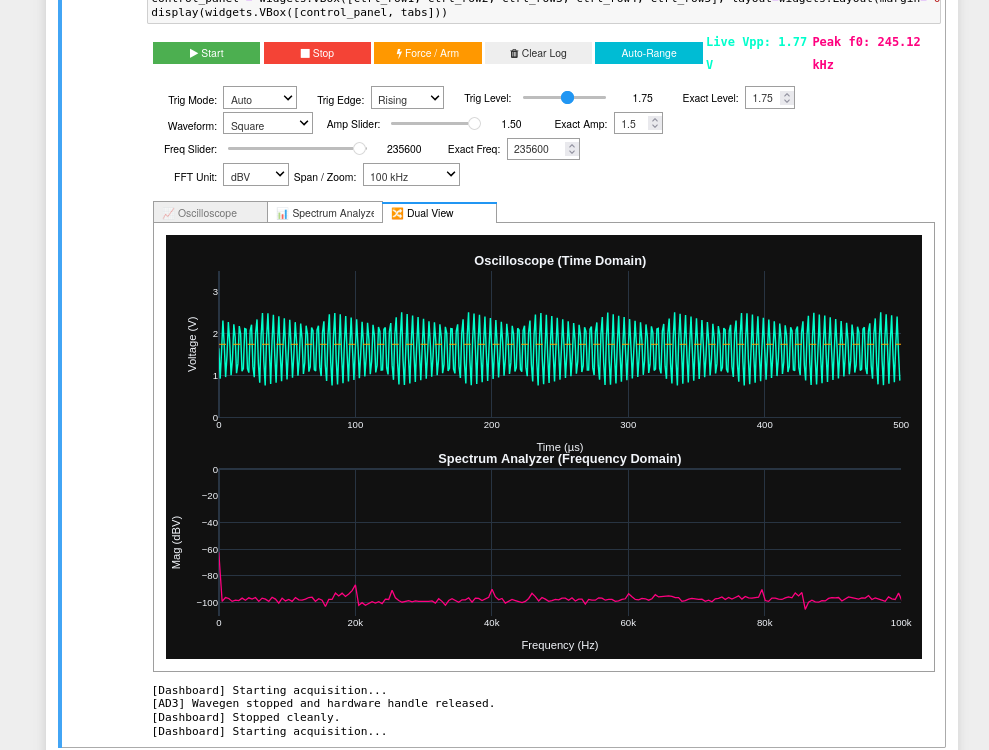
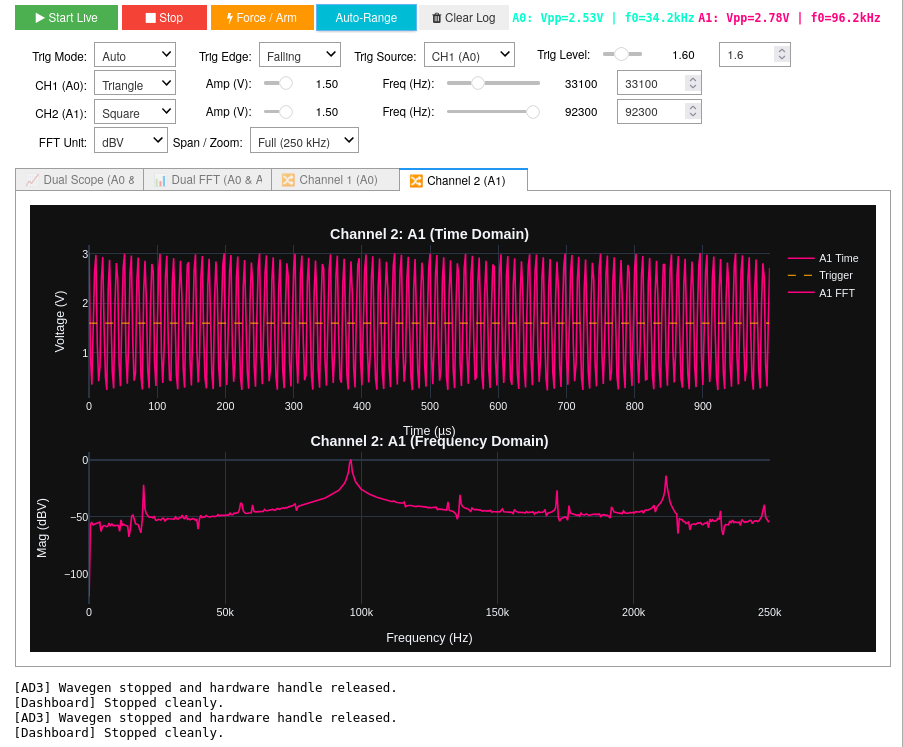
docs(readme): ensure PyPI absolute asset compatibility and document v1.3.0 dual-channel UI

diff --git a/README.md b/README.md
@@ -1,97 +1,114 @@
-# Real-Time 1 MSPS Hardware-Triggered Oscilloscope & Spectrum Analyzer
+# Real-Time Simultaneous Dual-Channel Oscilloscope & Spectrum Analyzer
 
 [![PyPI Version](https://img.shields.io/pypi/v/pynq-oscilloscope.svg)](https://pypi.org/project/pynq-oscilloscope/)
-[![License: MIT](https://img.shields.io/badge/License-MIT-yellow.svg)](LICENSE)
-[![Hardware Overlay](https://img.shields.io/badge/Hardware-hw--xadc--dma--overlays%20v1.2.0-orange.svg)](https://github.com/SiririComun/hw-xadc-dma-overlays)
+[![License: MIT](https://img.shields.io/badge/License-MIT-yellow.svg)](https://github.com/SiririComun/sw-pynq-oscilloscope/blob/main/LICENSE)
+[![Hardware Overlay](https://img.shields.io/badge/Hardware-hw--xadc--dma--overlays%20v1.3.0--rc1-orange.svg)](https://github.com/SiririComun/hw-xadc-dma-overlays)
 [![Board Support](https://img.shields.io/badge/Board-PYNQ--Z2-green.svg)](https://tul.com.tw/ProductsPYNQ-Z2.html)
 
-A high-performance, dark-mode real-time Oscilloscope and Spectrum Analyzer software stack running natively on PYNQ Linux platforms. 
+A high-performance, dark-mode real-time **Dual-Channel Oscilloscope and Spectrum Analyzer** software stack running natively on PYNQ Linux platforms. 
 
-Features **sub-microsecond hardware edge triggering** (`axis_trigger_unit`), **FPGA-accelerated 2048-point FFT & CORDIC magnitude extraction** in Programmable Logic, **dual AXI DMA streaming direct to DDR memory at ~290 FPS**, and non-blocking analog signal generation with the **Digilent Analog Discovery 3** via `pydwf`.
+Features **simultaneous dual-channel continuous analog acquisition** on Arduino header pins **A0** (`Vaux1`) and **A1** (`Vaux9`), **selectable hardware edge triggering (`CH1 / A0` vs `CH2 / A1`)**, **FPGA-accelerated 2048-point FFT & CORDIC magnitude extraction** in Programmable Logic, **dual AXI DMA streaming direct to DDR memory at ~30 FPS**, and non-blocking concurrent dual-channel analog waveform generation with the **Digilent Analog Discovery 3 (AD3)** via `pydwf`.
 
 ---
 
 ## 🏛 System Architecture
 
-This repository adopts the **canonical PYNQ Custom Overlay pattern** (`OscilloscopeOverlay`). It automatically pulls its compiled hardware bitstream and metadata from GitHub Releases (or loads local custom `.bit` builds) and encapsulates the Dual DMA receivers, AXI-Lite trigger registers, and wavegen into a unified Python object.
+This repository adopts the **canonical PYNQ Custom Overlay pattern** (`OscilloscopeOverlay`). It automatically pulls its compiled hardware bitstream and metadata from GitHub Releases (or loads local custom `.bit` builds) and encapsulates the Dual DMA receivers, AXI-Lite trigger registers, sequencer controls, and dual-wavegen into a unified Python object.
 
 ```
- [ Analog Discovery 3 (W1) ] ──(Analog Jumper Wire)──> [ PYNQ-Z2 Header (A0) ]
-              │                                                     │
-        (pydwf SDK)                                     (XADC 1 MSPS AXI-Stream)
-              │                                                     │
-              ▼                                                     ▼
-    [ AD3SignalGenerator ]                               [ axis_trigger_unit IP ]
-              │                                                     │
-              │                                          [ tlast_generator (2048 pts) ]
-              │                                                     │
-              │                                          [ axis_broadcaster ]
-              │                                    ┌────────────────┴────────────────┐
-              │                                    ▼ (Time Stream)                   ▼ (Signed Stream)
-              │                           [ AXI DMA 0 (Time) ]              [ xfft (2048-pt BFP) ]
-              │                                    │                                 │
-              │                                    │                        [ CORDIC (Magnitude) ]
-              │                                    │                                 │
-              │                                    │                        [ AXI DMA 1 (FFT) ]
-              │                                    │                                 │
-              └────────────────────────────────────┴────────────────┬────────────────┘
-                                                                    ▼
-                                                         [ OscilloscopeOverlay ]
-                                                  ├── .trigger  (HardwareTrigger AXI-Lite)
-                                                  ├── .xadc     (StreamingXADC DMA Driver)
-                                                  ├── .fft      (StreamingFFT PL DMA Driver)
-                                                  ├── .wavegen  (AD3SignalGenerator)
-                                                  └── .dashboard() (Interactive Multi-Tab Instrument)
+ [ Analog Discovery 3 ] ──(W1: Yellow)──────> [ PYNQ-Z2 Pin A0 (Vaux1) ]
+ [      Wavegen       ] ──(W2: Yellow/White)─> [ PYNQ-Z2 Pin A1 (Vaux9) ]
+        │                                                     │
+  (pydwf SDK)                                     (XADC Dual Continuous Sequencer)
+        │                                                     │ (1 MSPS Interleaved Stream)
+        ▼                                                     ▼
+ [ AD3SignalGenerator ]                              [ axis_trigger_unit IP ]
+ (Concurrent W1 & W2)                                (Selectable Trigger Source: A0/A1)
+                                                              │
+                                                     [ tlast_generator (2048 pts) ]
+                                                              │
+                                                     [ axis_broadcaster ]
+                                               ┌──────────────┴──────────────┐
+                                               ▼ (Time Stream)               ▼ (Signed Stream)
+                                      [ AXI DMA 0 (Time) ]          [ xfft (2048-pt BFP) ]
+                                               │                             │
+                                               │                    [ CORDIC (Magnitude) ]
+                                               │                             │
+                                               │                    [ AXI DMA 1 (FFT) ]
+                                               │                             │
+                                               └──────────────┬──────────────┘
+                                                              ▼
+                                                   [ OscilloscopeOverlay ]
+                                            ├── .trigger  (HardwareTrigger AXI-Lite)
+                                            ├── .xadc     (StreamingXADC DMA Driver)
+                                            ├── .fft      (StreamingFFT PL DMA Driver)
+                                            ├── .wavegen  (AD3SignalGenerator Dual-DAC)
+                                            └── .dashboard() (Interactive 4-Tab Instrument)
 ```
 
 ---
 
-## 🖥 Interactive Dashboard UI Guide
+## 🖥 Interactive 4-Tab Dashboard UI Guide
 
-![Real-Time Oscilloscope & Spectrum Analyzer Dashboard](https://raw.githubusercontent.com/SiririComun/sw-pynq-oscilloscope/main/docs/images/dashboard_screenshot.png)
+### Tab 1 — 📈 Dual Oscilloscope (A0 & A1)
+Displays synchronized real-time time-domain traces for **Channel 1 (A0, Cyan)** and **Channel 2 (A1, Magenta)**. The **Trigger Threshold Line (Orange Dashed)** automatically relocates to whichever channel is selected as the active trigger source.
 
-### 1. Action & Status Bar (Row 1)
-* **`▶ Start`:** Initializes background acquisition, arms the FPGA trigger, and streams Time & Frequency domains concurrently at up to 30 FPS.
-* **`■ Stop`:** Cleanly halts the acquisition loop, disarms the trigger, stops the AD3 wavegen, and releases device handles.
-* **`⚡ Force / Arm`:** 
-  * In **Single Mode**, re-arms the trigger to capture the next single transient event.
-  * In **Auto/Normal Mode**, forces an immediate hardware frame capture.
-* **`🗑 Clear Log`:** Instantly clears the console output area below the dashboard.
-* **`Auto-Range` (Toggle):** Dynamically scales the horizontal timebase (5–10 signal periods) and adapts the vertical Y-axis limits.
-* **`Live Vpp` & `Peak f0`:** Real-time peak-to-peak voltage calculation and automated fundamental frequency tracking.
+![Dual Scope Triggered on A0](https://raw.githubusercontent.com/SiririComun/sw-pynq-oscilloscope/main/docs/images/dashboard_dual_scope_a0.png)
 
-### 2. Hardware Trigger Controls (Row 2)
-* **`Trig Mode`:**
-  * **`Auto`:** Continuous live stream. Locks onto trigger edges; if no edge occurs within 50 ms (disconnected input or threshold out of range), the 50 ms hardware timeout forces a capture so the display never freezes.
-  * **`Normal`:** Strictly edge-triggered. Freezes and holds the last frame when no trigger edge is present.
-  * **`Single`:** Captures **one single frame** on the first trigger event and freezes. Re-arm by clicking **`⚡ Force / Arm`**.
-* **`Trig Edge` (`Rising` / `Falling`):** Configures the FPGA voltage comparator slope.
-* **`Trig Level` (Slider & Numeric Box):** Sets the FPGA threshold register (`0x08`) between $0.0\,\text{V}$ and $3.3\,\text{V}$ with client-side zero-latency linking (`widgets.jslink`).
+*Trigger source set to **CH2 (A1)** — the trigger threshold line dynamically moves to the bottom A1 subplot:*
+![Dual Scope Triggered on A1](https://raw.githubusercontent.com/SiririComun/sw-pynq-oscilloscope/main/docs/images/dashboard_dual_scope_a1.png)
 
-### 3. AD3 Signal Generator & FFT Controls (Rows 3, 4 & 5)
-* **`Waveform` (`Sine`, `Triangle`, `Square`):** Selects DAC output waveform on AD3 W1.
-* **`Amp` & `Freq` Sliders:** Adjusts output amplitude ($0.1\,\text{V} - 1.5\,\text{V}$) and frequency ($100\,\text{Hz} - 250\,\text{kHz}$) on the fly.
-* **`FFT Unit` (`dBV`, `dBFS`, `Linear`):** Selects logarithmic power or linear amplitude for the spectrum analyzer.
-* **`Span / Zoom` (`Full 500 kHz`, `100 kHz`, `20 kHz`):** Zooms the frequency horizontal axis.
+---
 
-### 4. Multi-Tab Instrument Display
-* **📈 Tab 1 — Oscilloscope:** 1 MSPS time-domain trace + live orange dashed trigger threshold line.
-* **📊 Tab 2 — Spectrum Analyzer:** Real-time PL FFT spectrum with cyan diamond fundamental frequency marker ($f_0$).
-* **🔀 Tab 3 — Dual View:** Synchronized stacked display showing Time Domain (top) and Frequency Domain (bottom) simultaneously.
+### Tab 2 — 📊 Dual Spectrum Analyzer (FFTs of A0 & A1)
+Computes and renders high-speed frequency spectra for both channels simultaneously ($0 - 250\,\text{kHz}$) with automated fundamental peak frequency ($f_0$) tracking.
+
+![Dual FFT Spectrum Analyzer](https://raw.githubusercontent.com/SiririComun/sw-pynq-oscilloscope/main/docs/images/dashboard_dual_fft.png)
+
+---
+
+### Tab 3 & 4 — 🔀 Dedicated Channel Views
+Stacked multi-domain displays showing Time Domain (top) and Frequency Domain (bottom) for each channel individually:
+
+| Channel 1: A0 (Time + Spectrum) | Channel 2: A1 (Time + Spectrum) |
+| :---: | :---: |
+| ![Channel 1 View](https://raw.githubusercontent.com/SiririComun/sw-pynq-oscilloscope/main/docs/images/dashboard_ch1_view.png) | ![Channel 2 View](https://raw.githubusercontent.com/SiririComun/sw-pynq-oscilloscope/main/docs/images/dashboard_ch2_view.png) |
+
+---
+
+## ⚙ Control Panel Reference
+
+1. **Action Row (Row 1):**
+   * **`▶ Start Live`:** Launches non-blocking dual DMA stream and AD3 dual wavegen.
+   * **`■ Stop`:** Cleanly halts hardware loops, disarms triggers, and releases AD3 handles.
+   * **`⚡ Force / Arm`:** Forces capture in Auto/Normal mode or arms single-shot capture.
+   * **`Auto-Range` (Toggle):** Dynamically scales horizontal timebase (5–10 signal periods) according to the selected trigger channel's frequency.
+   * **`Live Metric Bar`:** Real-time $V_{pp}$ and peak fundamental frequency ($f_0$) for both A0 and A1.
+
+2. **Trigger Controls (Row 2):**
+   * **`Trig Mode`:** `Auto` (continuous with 50 ms fallback), `Normal` (strictly edge-gated), `Single` (transient capture).
+   * **`Trig Edge`:** `Rising` / `Falling` edge slope detection.
+   * **`Trig Source`:** Selects active hardware trigger channel: **`CH1 (A0)`** or **`CH2 (A1)`**.
+   * **`Trig Level`:** Sets the analog threshold register ($0.0\,\text{V} - 3.3\,\text{V}$).
+
+3. **Dual Wavegen Controls (Rows 3 & 4):**
+   * **`CH1 (A0)` & `CH2 (A1)`:** Independent waveform shapes (`Sine`, `Triangle`, `Square`), amplitudes ($0.1\,\text{V} - 1.5\,\text{V}$), and frequencies ($50\,\text{Hz} - 100\,\text{kHz}$).
+
+4. **FFT Controls (Row 5):**
+   * **`FFT Unit`:** Select logarithmic power (`dBV`, `dBFS`) or linear amplitude (`Linear`).
+   * **`Span / Zoom`:** Zooms frequency axis (`Full 250 kHz`, `100 kHz`, `20 kHz`).
 
 ---
 
 ## 🔌 Hardware Setup & Wiring
 
-1. **AD3 USB Connection:**
-   * Plug the Analog Discovery 3 USB cable into the large rectangular **USB HOST** port on the PYNQ-Z2 board (adjacent to Ethernet).
-2. **USB Cable Quality:**
-   * Ensure you use a **Data + Power USB-C cable** (charging-only cables will not be detected by Linux).
-3. **Power Supply:**
-   * Power the AD3 with an external **5V auxiliary power supply** to prevent brownouts under load.
-4. **Analog Signals:**
-   * Connect a jumper wire from **Wavegen 1 (W1)** on the AD3 to **Analog Input A0** on the PYNQ-Z2 Arduino header.
-   * Connect an AD3 **GND** pin to a PYNQ-Z2 **GND** pin.
+| AD3 Wire | Wire Color | PYNQ-Z2 Analog Pin | Signal Description |
+| :--- | :--- | :--- | :--- |
+| **Wavegen 1 (W1)** | Solid Yellow | **Header `J1` Pin A0** (Pin 6 - Bottom) | Channel 1 Analog Input (`Vaux1`) |
+| **Wavegen 2 (W2)** | Yellow / White Stripe | **Header `J1` Pin A1** (Pin 5 - 2nd from Bottom) | Channel 2 Analog Input (`Vaux9`) |
+| **GND** | Solid Black | **PYNQ-Z2 GND** | Common Analog Reference |
+
+*Note: Connect the AD3 USB cable to the large rectangular **USB HOST** port on the PYNQ-Z2 board. Use an external 5V auxiliary power supply for the AD3 to ensure voltage rail stability under dual-channel generation.*
 
 ---
 
@@ -117,33 +134,31 @@ install_ad3_drivers()
 
 ## 💻 Python API Usage
 
-### 1. Launch Interactive Dashboard in 2 Lines
+### Launch Interactive Dual Dashboard
 ```python
-from pynq_oscilloscope import OscilloscopeOverlay
+from pynq_oscilloscope import check_usb_permissions, OscilloscopeOverlay
 
-# Automatically downloads v1.2.0 release and programs FPGA
+check_usb_permissions()
+
+# Automatically loads v1.3.0-rc1 dual-channel overlay and programs FPGA
 ol = OscilloscopeOverlay()
 
-# Launch dark-mode interactive Plotly + IPywidgets instrument
+# Launch interactive 4-tab Plotly + IPywidgets dashboard
 app = ol.dashboard()
 ```
 
-### 2. Programmatic Time & Frequency Domain DMA Capture
+### Programmatic Dual-Channel Capture
 ```python
 from pynq_oscilloscope import OscilloscopeOverlay
-from pynq_oscilloscope.fft_dma import StreamingFFT
 
 ol = OscilloscopeOverlay()
 
-# Configure FPGA Trigger: Rising Edge @ 1.65V
-ol.trigger.configure(mode="Auto", edge="Rising", threshold_volts=1.65)
+# Configure Trigger: Trigger on Channel 2 (A1) Rising Edge @ 1.65V
+ol.trigger.configure(mode="Auto", edge="Rising", source="CH2", threshold_volts=1.65)
 
-# Synchronous capture of both Time and Frequency domains (0 ms dead time)
-voltages, freqs, mags = ol.capture_both(unit="dBV")
-
-peak_f, peak_m = StreamingFFT.get_peak_frequency(freqs, mags)
-print(f"Captured {len(voltages)} time samples. Vpp: {voltages.max()-voltages.min():.2f}V")
-print(f"Dominant Peak: {peak_f/1e3:.2f} kHz @ {peak_m:.1f} dBV")
+# Synchronously capture both channels (1024 samples per channel @ 500 kSPS)
+v_a0, v_a1 = ol.capture_stereo()
+print(f"Captured A0 Vpp: {v_a0.max()-v_a0.min():.2f} V | A1 Vpp: {v_a1.max()-v_a1.min():.2f} V")
 
 ol.close()
 ```
@@ -155,12 +170,22 @@ ol.close()
 | Notebook | Description | Key Modules Used |
 | :--- | :--- | :--- |
 | **`01_ad3_getting_started.ipynb`** | Verifies Digilent drivers and generates analog waveforms in background worker. | `AD3SignalGenerator`, `check_usb_permissions` |
-| **`02_xadc_getting_started.ipynb`** | Demonstrates `OscilloscopeOverlay`, hardware triggering, and time-domain DMA capture. | `OscilloscopeOverlay`, `HardwareTrigger` |
-| **`03_oscilloscope_dashboard.ipynb`** | **Main Application:** Deploys the complete interactive Multi-Tab Oscilloscope & Spectrum Analyzer Dashboard. | `OscilloscopeOverlay` |
-| **`04_fft_spectrum_analyzer.ipynb`** | **Spectrum Analyzer Guide:** Captures PL hardware FFT spectra, analyzes harmonics (Sine vs. Square). | `OscilloscopeOverlay`, `StreamingFFT` |
+| **`02_xadc_getting_started.ipynb`** | Single-channel hardware triggering and DMA capture on A0. | `OscilloscopeOverlay`, `HardwareTrigger` |
+| **`03_oscilloscope_dashboard.ipynb`** | **Main Application:** Deploys the complete interactive 4-Tab Dual-Channel Dashboard. | `OscilloscopeOverlay` |
+| **`04_fft_spectrum_analyzer.ipynb`** | **Spectrum Analyzer Guide:** Captures PL hardware FFT spectra, analyzes harmonics. | `OscilloscopeOverlay`, `StreamingFFT` |
+
+---
+
+## ⚠ Release Notes & Disclaimer
+
+> **Pre-Release Disclaimer (`v1.3.0-rc1`):**
+> 
+> * **Sampling Rate:** The dual-channel continuous sequencer operates at an aggregate sampling rate of $1.0\,\text{MSPS}$ ($500\,\text{kSPS}$ per channel).
+> * **Hardware Phase-Lock:** The hardware trigger unit guarantees that DMA packets strictly start aligned to Channel 1 (A0) even when triggering off Channel 2 (A1).
+> * **Known Considerations:** While fully validated for standard laboratory wave generation and cross-channel triggering up to $100\,\text{kHz}$, fine adjustments for extreme frequency ratios (e.g. $>10:1$ differences between A0 and A1) or high-noise edge environments may be further tuned in future revisions.
 
 ---
 
 ## 📄 License
 
-This project is licensed under the MIT License - see the [LICENSE](LICENSE) file for details.
+This project is licensed under the MIT License - see the [LICENSE](https://github.com/SiririComun/sw-pynq-oscilloscope/blob/main/LICENSE) file for details.
